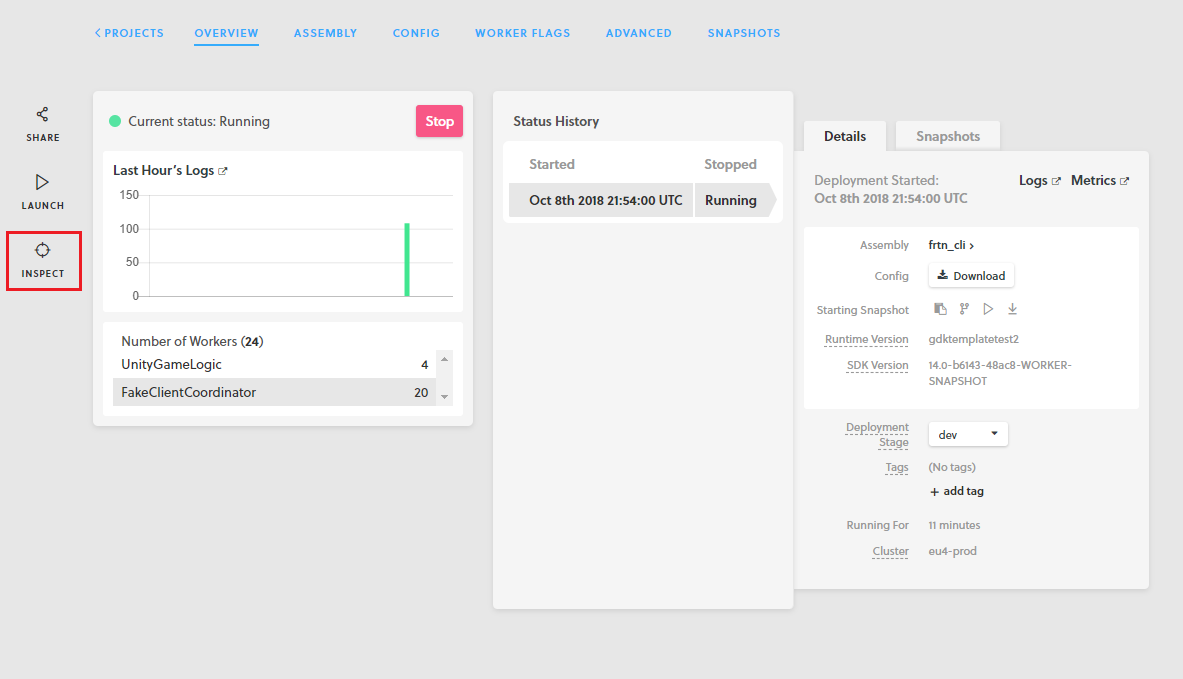
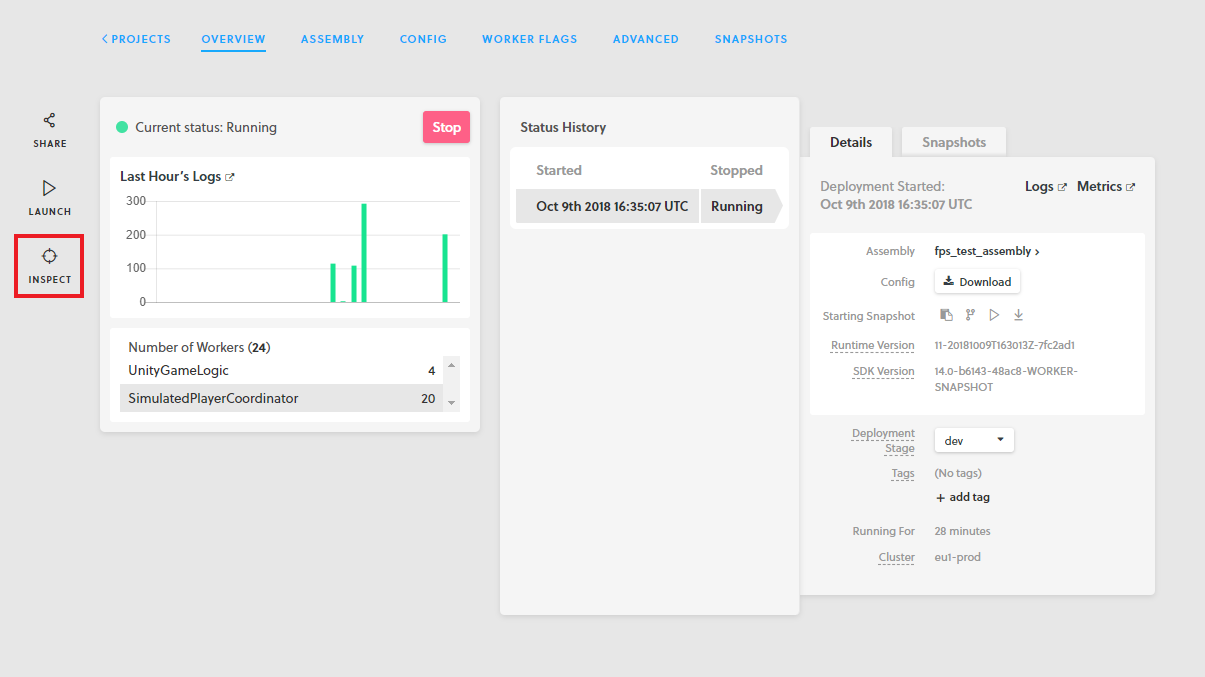
Updating welcome page (#497)
* updating welcome page based on jonas' feedback

* updating images to new name

* adding welcome page?

* more fixes

* adding regex to deployment name

* adding example upload command

* adding the word

* removing png because of uper case name

* adding images with right names back in

diff --git a/docs/welcome.md b/docs/welcome.md
@@ -22,11 +22,7 @@ You’ll then be ready to learn how to build your own features. Our tutorial for
 
 <%(Callout type="info" message="Setting up SpatialOS, the GDK, the FPS Starter Project, and their dependencies should take you about 10 mins.")%>
 
-Follow our [setup guide]({{urlRoot}}/setup-and-installing) to download and install the GDK and its dependencies.
-
-Next, please clone the FPS starter project as follows:
-
-1. Follow the [machine setup guide]({{urlRoot}}/setup-and-installing#set-up-your-machine).
+1. Follow the [setup guide]({{urlRoot}}/setup-and-installing#set-up-your-machine) to download and install the GDK and its dependencies.
 2. Clone the [GDK for Unity FPS Starter Project](https://github.com/spatialos/gdk-for-unity-fps-starter-project) repository:
 
     |     |     |
@@ -77,12 +73,24 @@ There is a quick fix however:
 
 As you will be launching a cloud deployment, you need to build out the code executables which will be run by SpatialOS servers - these are called [workers](https://docs.improbable.io/reference/latest/shared/concepts/workers-load-balancing).
 
-<!-- !!!! TODO: <Explain to people how to open the project in Unity - eg that you have to go to /workers to find the Unity project - just in case>
- !!!! -->
+Open the Unity project, by starting the Unity Editor and navigating to `gdk-for-unity-fps-starter-project/workers/unity`.
 
 In the Unity Editor, you can build your workers from the SpatialOS menu by clicking **Build for cloud** > **All workers**.
 
 <!-- TODO: Image of Unity editor SpatialOS menu  -->
+
+> **It has finished building when:** You see the following message in the Unity Console: `Completed build for Cloud target`
+
+After the build has successfully finished, the `gdk-for-unity-fps-starter-project/build/assembly` folder should contain the following files:
+```text
+    worker
+        ├── SimulatedPlayerCoordinator@Linux.zip
+        ├── UnityClient@Mac.zip
+        ├── UnityClient@Windows.zip
+        ├── UnityGameLogic@Linux.zip
+    schema
+        ├── schema.descriptor
+```
 
 <%(Callout type="info" message="Note that while you are developing locally with the GDK you can skip building executables, since both of your workers can run in the editor.")%>
 
@@ -96,7 +104,18 @@ You’ll need your generated project name to deploy the FPS game to the cloud. T
 
 <img src="{{assetRoot}}assets/project-page.png" style="margin: 0 auto; display: block;" />
 
-Using a text editor of your choice, open the `gdk-for-unity-fps-starter-project/spatialos.json` file and replace the `unity_gdk` project name with the project name you were assigned in the Web Console. This will let the SpatialOS platform know which project you intend to upload to.
+Using a text editor of your choice, open the `gdk-for-unity-fps-starter-project/spatialos.json` file and replace the `unity_gdk` project name with the project name you were assigned in the Web Console. This will let the SpatialOS platform know which project you intend to upload to. Your `spatialos.json` should look like this:
+
+```json
+{
+    "name": "beta_yankee_hawaii_621",
+    "project_version": "0.0.1",
+    "sdk_version": "14.0-b6143-48ac8-WORKER-SNAPSHOT",
+    "dependencies": [
+        {"name": "standard_library", "version": "14.0-b6143-48ac8-WORKER-SNAPSHOT"}
+    ]
+}
+```
 
 ### Upload worker assemblies
 
@@ -104,13 +123,17 @@ An [assembly](https://docs.improbable.io/reference/latest/shared/glossary#assemb
 
 To run a deployment in the cloud, you must upload the worker assemblies to your SpatialOS project. This can only be done in a terminal, via the [spatial CLI](https://docs.improbable.io/reference/latest/shared/glossary#the-spatial-command-line-tool-cli). You must also give the worker assemblies a name so that you can reference them when launching a deployment.
 
-Using a terminal of your choice - for example, the Command Prompt for Windows - navigate to `gdk-for-unity-fps-starter-project/` and run `spatial cloud upload <assembly_name>`, where `assembly_name` is a name of your choice (e.g fps-assembly).
+Using a terminal of your choice - for example, the Command Prompt for Windows - navigate to `gdk-for-unity-fps-starter-project/` and run `spatial cloud upload <assembly_name>`, where `assembly_name` is a name of your choice (e.g fps-assembly). A valid upload command would look like this:
+```
+spatial cloud upload myassembly
+```
+
 
 > **It’s finished uploading when:** You see an upload report printed in your terminal output, for example:
 
 ```
 Upload report:
-6 artifacts uploaded (3 successful, 3 skipped, 0 failed)
+  - 5 artifacts uploaded (4 successful, 1 skipped, 0 failed)
 ```
 
 Based on your network speed, this may take a little while (1-10 mins) to complete.
@@ -121,11 +144,14 @@ The next step is to [launch a cloud deployment](https://docs.improbable.io/refer
 
 When launching a cloud deployment you must provide three parameters:
 
-* **the assembly name**, which identifies the worker assemblies to use
+* **the assembly name**, which identifies the worker assemblies to use. The name needs to conform to the following regex: `[a-zA-Z0-9_.-]{5,64}`
 * **a launch configuration**, which declares the world and load balancing configuration
-* **a name for your deployment**, which is used to label the deployment in the SpatialOS console.
+* **a name for your deployment**, which is used to label the deployment in the SpatialOS console. The name needs to conform to the following regex: `[a-z0-9_]{2,32}`
 
-Using a terminal of your choice, navigate to the root directory of your SpatialOS project and run `spatial cloud launch --snapshot=snapshots/default.snapshot <assembly_name> cloud_launch_large.json <deployment_name>` where `assembly_name` is the name you gave the assembly in the previous step and `deployment_name` is a name of your choice (e.g shootyshooty).
+Using a terminal of your choice, navigate to the root directory of your SpatialOS project and run `spatial cloud launch --snapshot=snapshots/default.snapshot <assembly_name> cloud_launch_large.json <deployment_name>` where `assembly_name` is the name you gave the assembly in the previous step and `deployment_name` is a name of your choice (e.g shootyshooty). A valid launch command would look like this:
+```
+spatial cloud launch --snapshot=snapshots/default.snapshot myassembly cloud_launch_large.json shootyshooty 
+```
 
 This command defaults to deploying to clusters located in the US. If you’re in Europe, add the `--cluster_region=eu` flag for lower latency.
 
@@ -189,7 +215,7 @@ The [World Inspector](https://docs.improbable.io/reference/latest/shared/operate
 
 We can use it, for instance, to highlight where all the Simulated Players and Player Entities are in the world (note: not cool to identify where you friends are hiding)
 
-<img src="{{assetRoot}}assets/inspector-fake-players.jpg" style="margin: 0 auto; display: block;" />
+<img src="{{assetRoot}}assets/inspector-simulated-player.png" style="margin: 0 auto; display: block;" />
 
 [The Logs app](https://docs.improbable.io/reference/latest/shared/operate/logs#logs), available one tab away, displays all your deployment’s logs (whether they come from the SpatialOS Runtime or the Worker code you have written) with useful filters.
 
